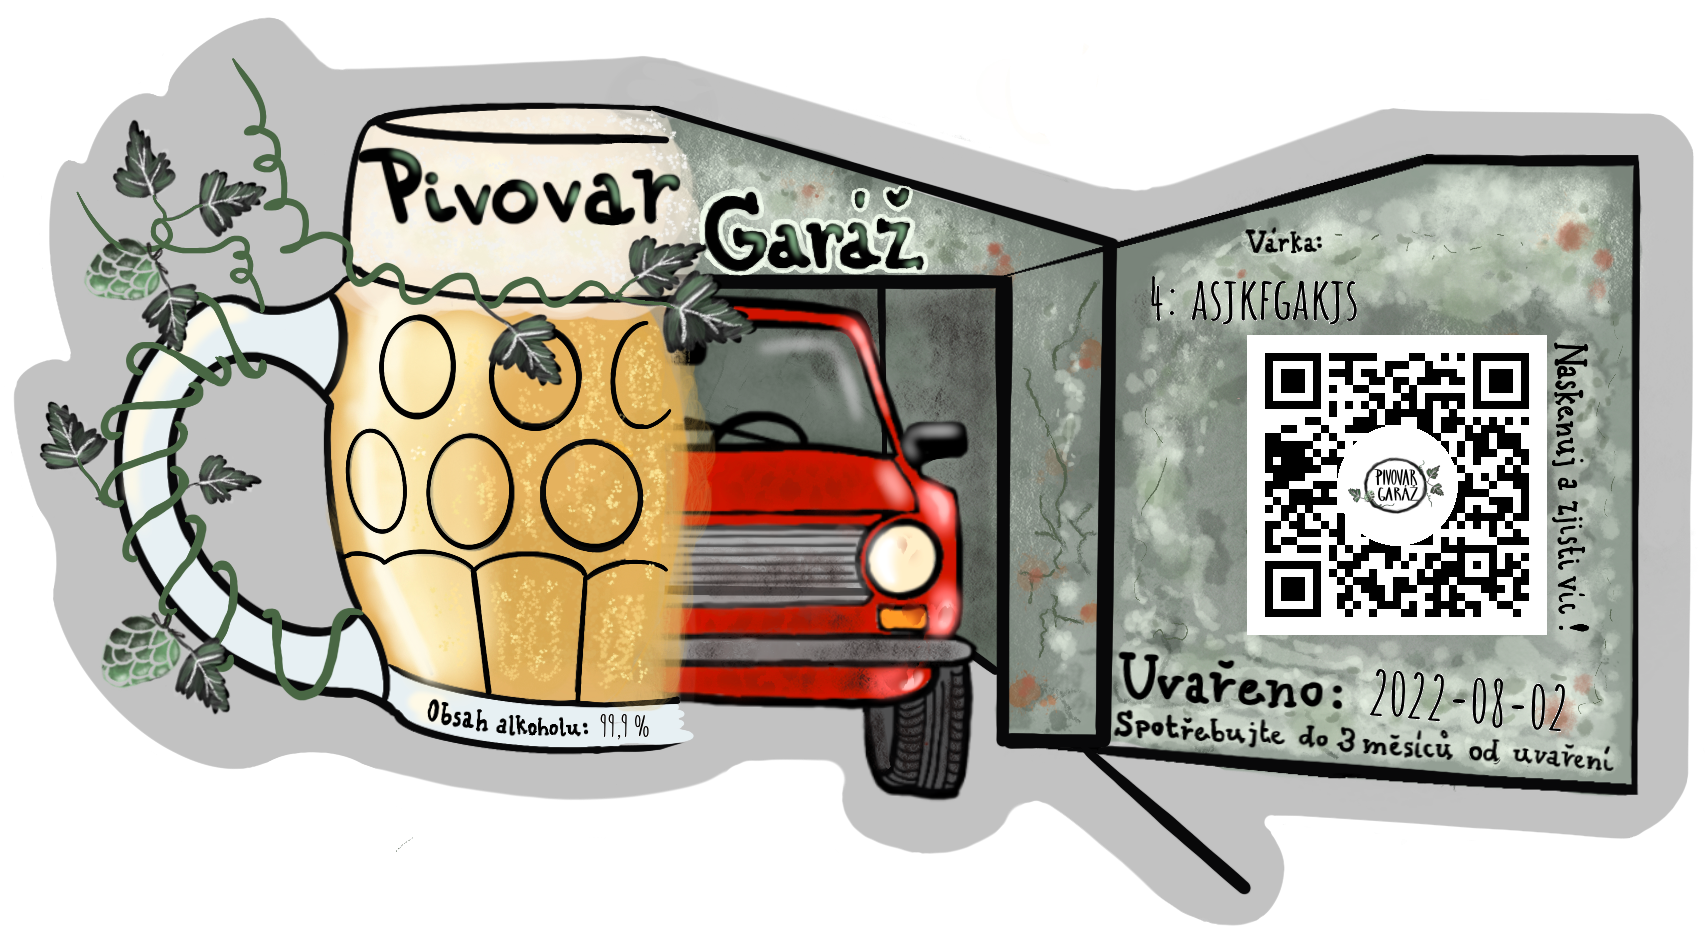
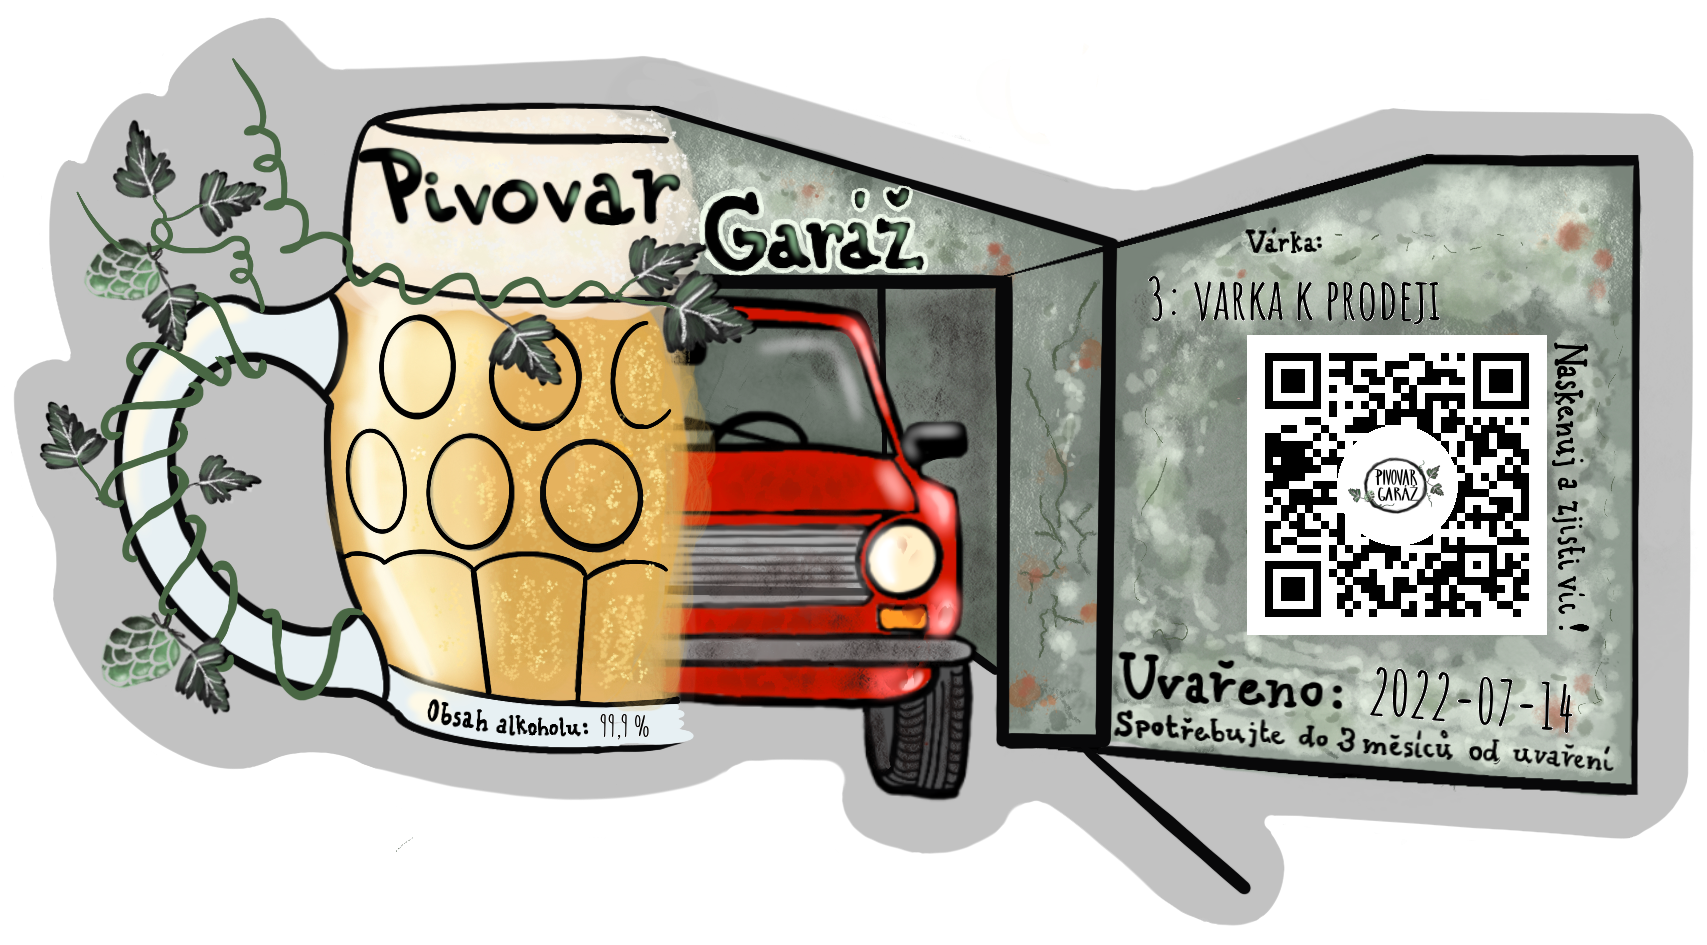
batch/beer forms #40

Changed region(s): [[0.652, 0.2762, 0.8383, 0.3376], [0.8073, 0.7058, 0.9315, 0.7672]]

diff --git a/garage/batch/batchList.php b/garage/batch/batchList.php
@@ -5,7 +5,7 @@ if (!isset($_SESSION["currentUser"])) {
     header("Location: ../user/login.php");
 }
 
-$batches = [];
+$batchesSorted = [];
 $stmt = $link->prepare("SELECT ba.id, be.id AS beerId, be.label AS beerLabel, ba.label AS batchLabel, ba.created, ba.thirds, ba.pints, s.id AS statusId, s.label AS statusLabel, s.color,
     (SELECT SUM(o.thirds) FROM beer_order o WHERE o.id_batch=ba.id AND o.id_status<>4) AS thirdsOrdered, (SELECT SUM(o.pints) FROM beer_order o WHERE o.id_batch=ba.id AND o.id_status<>4) AS pintsOrdered,
     ba.emailed, ba.thirds_pp, ba.pints_pp, ba.third_price, ba.pint_price FROM batch ba INNER JOIN beer be ON ba.id_beer=be.id INNER JOIN status_batch s ON ba.id_status=s.id;");
@@ -18,7 +18,7 @@ if ($result = $stmt->get_result()) {
                 "batches" => []
             ];
         }
-        $batchesSorted[$row["beerId"]]["batches"][$row["id"]] = [
+        $batchesSorted[$row["beerId"]]["batches"][$row["id"]] = $_SESSION["batches"][$row["id"]] = [
             "label" => $row["batchLabel"],
             "created" => $row["created"],
             "thirds" => $row["thirds"],

diff --git a/garage/batch/formBatch.php b/garage/batch/formBatch.php
@@ -35,7 +35,7 @@ if (!isset($_SESSION["currentUser"]) || !$_SESSION["currentUser"]["employee"]) {
             <label for="beer" class="form-label">Pivo</label>
         </div>
         <div class="form-floating mb-3">
-            <input type="text" class="form-control" id="label" name="label" required maxlength="50" value="<?php echo !isset($_GET["add"]) ? $_SESSION["batches"][$_GET["batchId"]]["batchLabel"] : ""; ?>">
+            <input type="text" class="form-control" id="label" name="label" required maxlength="50" value="<?php echo !isset($_GET["add"]) ? $_SESSION["batches"][$_GET["batchId"]]["label"] : ""; ?>">
             <label for="label" class="form-label">Název</label>
         </div>
         <div class="form-floating mb-3">

diff --git a/garage/beer/beerList.php b/garage/beer/beerList.php
@@ -14,10 +14,13 @@ if ($result = $stmt->get_result()) {
         $beers[$row["id"]] = [
             "label" => $row["label"],
             "thumbnailName" => $json[$row["id"]]["thumbnailName"],
-            "emailed" => $row["emailed"]
+            "emailed" => $row["emailed"],
+            "shortDesc" => $json[$row["id"]]["shortDesc"],
+            "longDesc" => $json[$row["id"]]["longDesc"]
         ];
     }
 }
+$_SESSION["beers"] = $beers;
 // TODO move thumbnail name to databese, so i dont have to read the json here
 // TODO move both desc texts to database
 ?>
